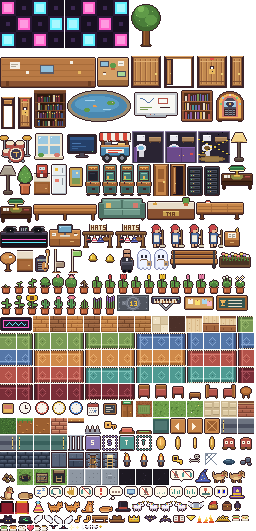
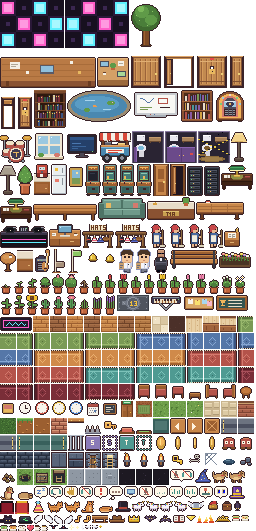
Cleaner roams between rooms humming with the odd phrase; ghost of Mazurkevich redrawn as a translucent office person
The cleaner now strolls to random stand tiles in non-admin rooms when no cup needs her (cups still come first), shows a note while humming and a speech bubble now and then (hum/say on the creature state). The ghost is a person sprite (dark hair, white shirt, clipboard) drawn from a photo reference.

Changed region(s): [[0.4688, 0.452, 0.6562, 0.5122]]

diff --git a/server/src/creatures.ts b/server/src/creatures.ts
@@ -13,6 +13,9 @@ export const PET_FOLLOW_MS = 60_000;       // then it tags along with the person
 export const BAT_CHANCE = 0.7;             // per try
 export const BAT_COOLDOWN_MS = 1000;
 export const BAT_RESPAWN_MS = 10 * 60_000; // after a catch
+export const SAY_MS = 5000;                // a phrase stays up this long
+const PHRASES = ['Who left a cup AGAIN?', 'Spotless. Almost.', 'Mind the wet floor!', 'I saw that crumb.', 'Tables are not coat racks.',
+  'Coffee rings: my nemesis.', 'Dust never sleeps.', 'Somebody loves their mug a bit too much.', 'Cleaner floors, calmer minds.', 'Do not feed the printer.'];
 const SPEED: Record<CreatureKind, number> = { cat: 320, dog: 230, bat: 150, cleaner: 300 };
 
 export interface CreatureHost {
@@ -25,6 +28,7 @@ interface Live extends Creature {
   until: number;                                   // busy (walking, sitting, napping…) until then
   then?: { pose: CreaturePose; ms: number }; // what to do on arrival
   cleaning?: string;                          // the cleaner: the cup she's on her way to (or wiping up)
+  humUntil?: number; sayUntil?: number; nextSayAt?: number; // the cleaner's humming stretch, her phrase, when the next one comes
   follow?: { userId: string; until: number }; // a petted cat or dog trots after its person for a while
 }
 
@@ -52,7 +56,7 @@ export class Creatures {
   constructor(private host: CreatureHost) {}
 
   get map() { return this.host.map(); }
-  toPublic = (c: Live): Creature => ({ id: c.id, kind: c.kind, name: c.name, tile: c.tile, dir: c.dir, pose: c.pose, walk: c.walk });
+  toPublic = (c: Live): Creature => ({ id: c.id, kind: c.kind, name: c.name, tile: c.tile, dir: c.dir, pose: c.pose, walk: c.walk, ...(c.hum ? { hum: true } : {}), ...(c.say ? { say: c.say } : {}) });
   all() { return [...this.list.values()].map(this.toPublic); }
   private announceAll() { this.host.broadcast({ t: 'creatures', creatures: this.all() }); }
   private announce(c: Live) { this.host.broadcast({ t: 'creature', creature: this.toPublic(c) }); }
@@ -113,6 +117,7 @@ export class Creatures {
     const bat = this.list.get('bat');
     if (bat && !this.batSeason(date)) this.remove('bat');
     for (const c of this.list.values()) {
+      if (c.kind === 'cleaner') this.voice(c, now);
       if (now < c.until) continue;
       if (c.then) { // just arrived
         const gone = c.cleaning && !this.cups.some(k => k.id === c.cleaning);
@@ -200,9 +205,26 @@ export class Creatures {
       this.go(c, plan.spot, now, { pose: 'clean', ms: CLEAN_MS }, plan.path);
       return;
     }
-    const home = this.base();
-    if (c.tile.x !== home.x || c.tile.y !== home.y) this.go(c, home, now, { pose: 'idle', ms: 0 });
-    else c.until = now + 1000;
+    this.roam(c, now);
+  }
+  /** Nothing to clean: stroll to a stand tile in a random room (not the admin room), pause, repeat, humming now and then. */
+  private roam(c: Live, now: number) {
+    const rooms = this.map.rooms.filter(r => r.rules.access !== 'admins');
+    for (let i = 0; i < 8; i++) {
+      const spot = pick(pick(rooms).stand.filter(s => isWalkable(this.map, s.x, s.y)));
+      if (!spot || (spot.x === c.tile.x && spot.y === c.tile.y)) continue;
+      if (!(c.humUntil && c.humUntil > now) && Math.random() < 0.5) c.humUntil = now + rand(15_000, 40_000);
+      if (this.go(c, { x: spot.x, y: spot.y }, now, { pose: 'idle', ms: rand(3000, 7000) })) return;
+    }
+    c.until = now + 1000;
+  }
+  /** The cleaner's humming and her occasional phrase: set and cleared by the clock, announced when they change. */
+  private voice(c: Live, now: number) {
+    const hum = !!c.humUntil && now < c.humUntil && c.pose !== 'clean', say = c.sayUntil && now < c.sayUntil ? c.say : undefined;
+    c.nextSayAt ??= now + rand(60_000, 150_000);
+    let nextSay = say;
+    if (!say && now >= c.nextSayAt && c.pose !== 'clean') { nextSay = pick(PHRASES); c.sayUntil = now + SAY_MS; c.nextSayAt = now + rand(120_000, 300_000); }
+    if (hum !== !!c.hum || nextSay !== c.say) { c.hum = hum; c.say = nextSay; this.announce(c); }
   }
   /** Which cup next and where to stand for it: the nearest by path. */
   planClean(from: Tile, now: number) {

diff --git a/client/src/creatures.ts b/client/src/creatures.ts
@@ -78,6 +78,25 @@ export class CreatureLayer {
     ctx.fillStyle = 'rgba(40,20,25,0.25)';
     ctx.beginPath(); ctx.ellipse(cx, bottom - 1.5, rx, 1.6, 0, 0, Math.PI * 2); ctx.fill();
   }
+  /** A ♪ that bobs and sways over the head, drawn in code. */
+  private note(cx: number, y: number, ms: number) {
+    const ctx = this.ctx(), ph = (ms / 900) % 1;
+    ctx.save(); ctx.globalAlpha = Math.min(1, 2 - ph * 2); ctx.font = 'bold 8px system-ui, sans-serif'; ctx.textAlign = 'center';
+    ctx.fillStyle = '#2a1a22'; ctx.fillText('♪', Math.round(cx + 5 + Math.sin(ms / 300) * 2) + 0.4, Math.round(y - ph * 5) + 0.4);
+    ctx.fillStyle = '#ffd86a'; ctx.fillText('♪', Math.round(cx + 5 + Math.sin(ms / 300) * 2), Math.round(y - ph * 5));
+    ctx.restore();
+  }
+  /** A small speech bubble with a tail, centred over the head. */
+  private say(text: string, cx: number, y: number) {
+    const ctx = this.ctx();
+    ctx.save(); ctx.font = '5px system-ui, sans-serif'; ctx.textBaseline = 'middle';
+    const w = Math.ceil(ctx.measureText(text).width) + 6, h = 9, x = Math.round(cx - w / 2), top = y - h - 2;
+    ctx.fillStyle = '#fff8ec'; ctx.strokeStyle = '#2a1a22'; ctx.lineWidth = 1;
+    ctx.beginPath(); ctx.roundRect(x, top, w, h, 2); ctx.fill(); ctx.stroke();
+    ctx.beginPath(); ctx.moveTo(cx - 2, top + h); ctx.lineTo(cx, top + h + 3); ctx.lineTo(cx + 2, top + h); ctx.fillStyle = '#fff8ec'; ctx.fill();
+    ctx.fillStyle = '#2a1a22'; ctx.textAlign = 'center'; ctx.fillText(text, cx, top + h / 2 + 0.5);
+    ctx.restore();
+  }
   private frameFor(c: Creature, p: CreaturePose, ms: number) {
     const step = Math.floor(ms / (c.kind === 'dog' ? 120 : 160)) % 2;
     if (c.kind === 'bat') return p.walking ? `bat_fly_${Math.floor(ms / 90) % 2}` : 'bat_hang';
@@ -109,6 +128,8 @@ export class CreatureLayer {
         const left = this.left(c, p.dir);
         this.shadow(cx, bottom, c.kind === 'cleaner' ? 5 : 4.5);
         this.drawFrame(this.frameFor(c, p, ms), cx, bottom - (c.kind === 'cleaner' ? 1 : 0), left);
+        if (c.hum) this.note(cx, bottom - 27, ms);
+        if (c.say) this.say(c.say, cx, bottom - 31);
         if (c.pose === 'pet' && !p.walking) for (let i = 0; i < 3; i++) { // hearts drifting up
           const ph = (ms / 900 + i / 3) % 1, ctx = this.ctx();
           ctx.globalAlpha = Math.min(1, 2 - ph * 2); this.blit('heart', Math.round(cx - 3 + (i - 1) * 5 + Math.sin(ph * 6 + i) * 1.5), Math.round(bottom - 16 - ph * 10)); ctx.globalAlpha = 1;

diff --git a/shared/protocol.ts b/shared/protocol.ts
@@ -161,6 +161,8 @@ export interface Creature {
   id: string; kind: CreatureKind; name: string;
   tile: Tile; dir: Dir; pose: CreaturePose;
   walk: { path: Tile[]; startedAt: number; ms: number } | null;
+  hum?: boolean; // the cleaner hums while she roams (a ♪ over her head)
+  say?: string;  // and now and then says something short (a speech bubble for a few seconds)
 }
 /** A cup someone left on a table; the cleaner takes it away. */
 export interface Cup { id: string; tile: Tile; item: string; at: number }
